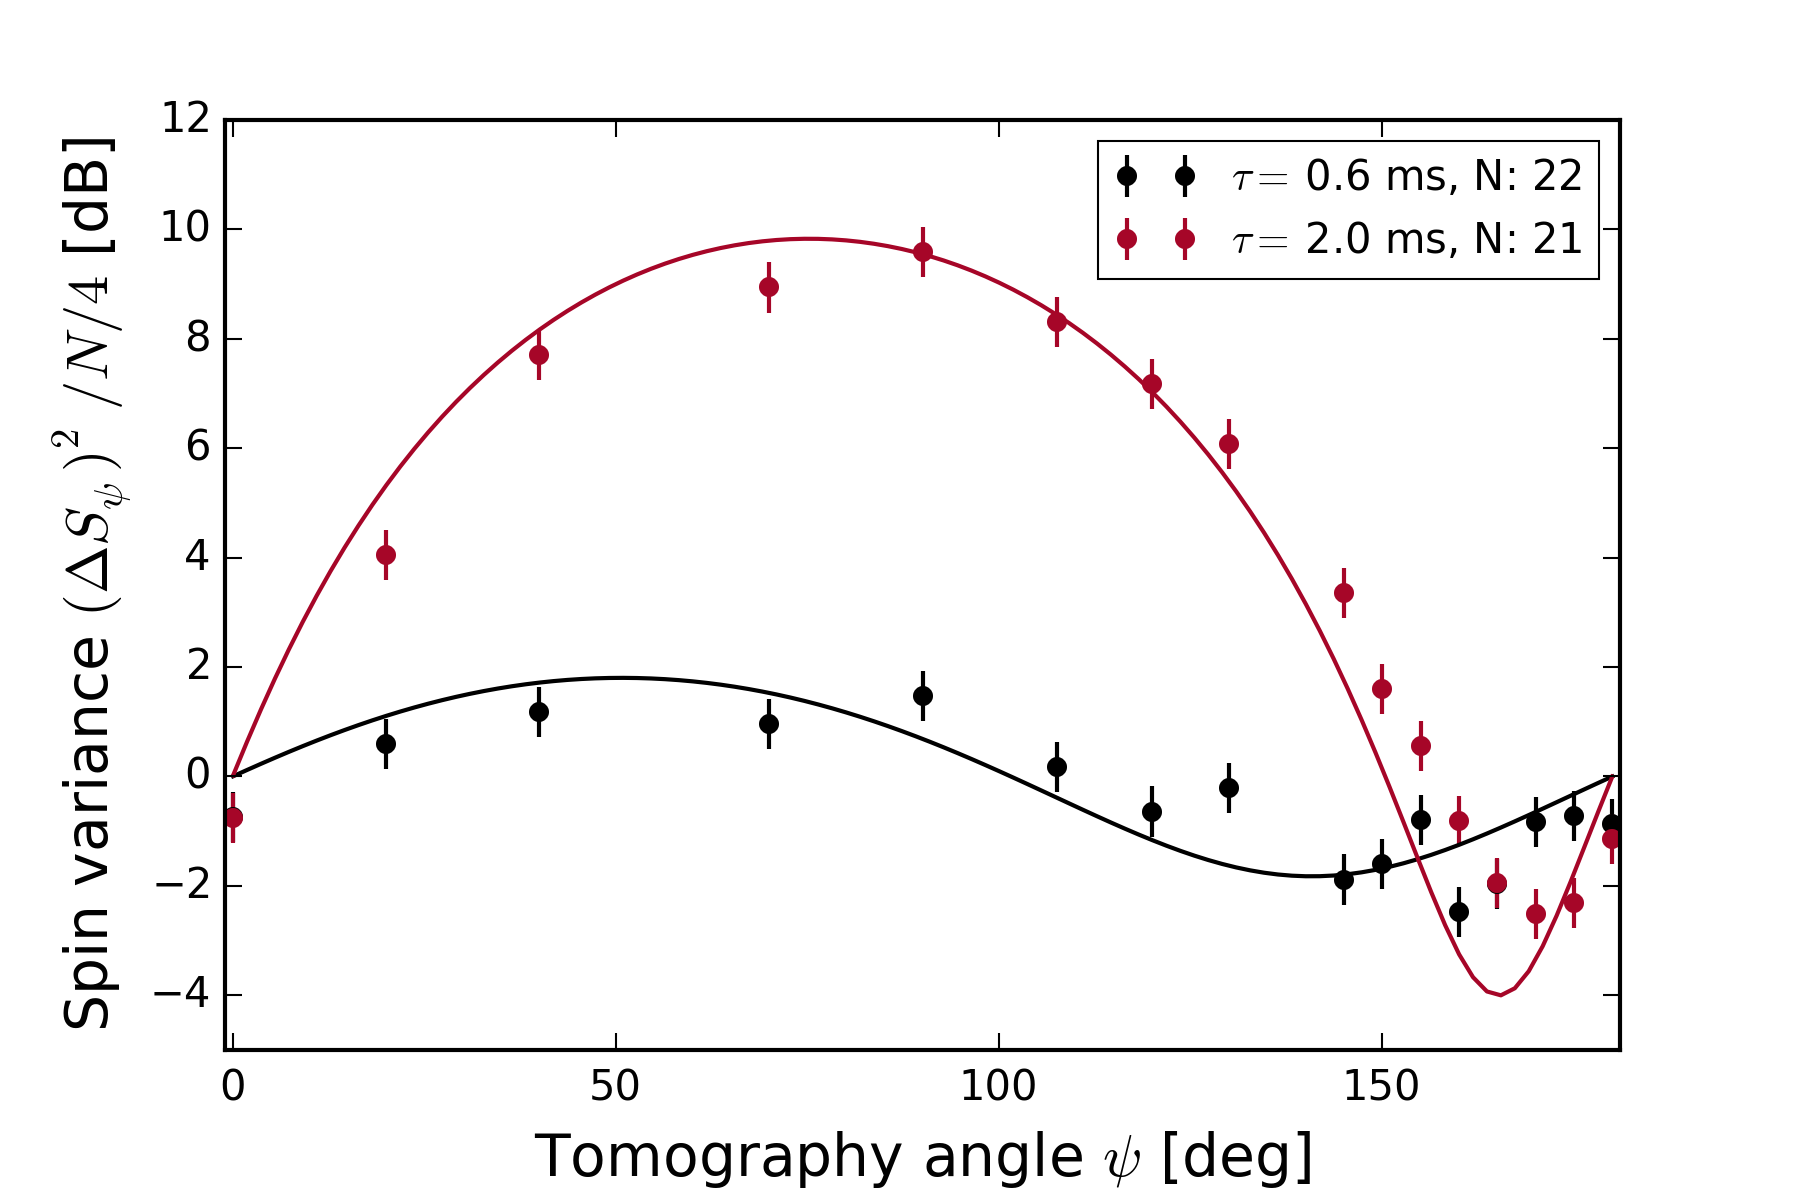
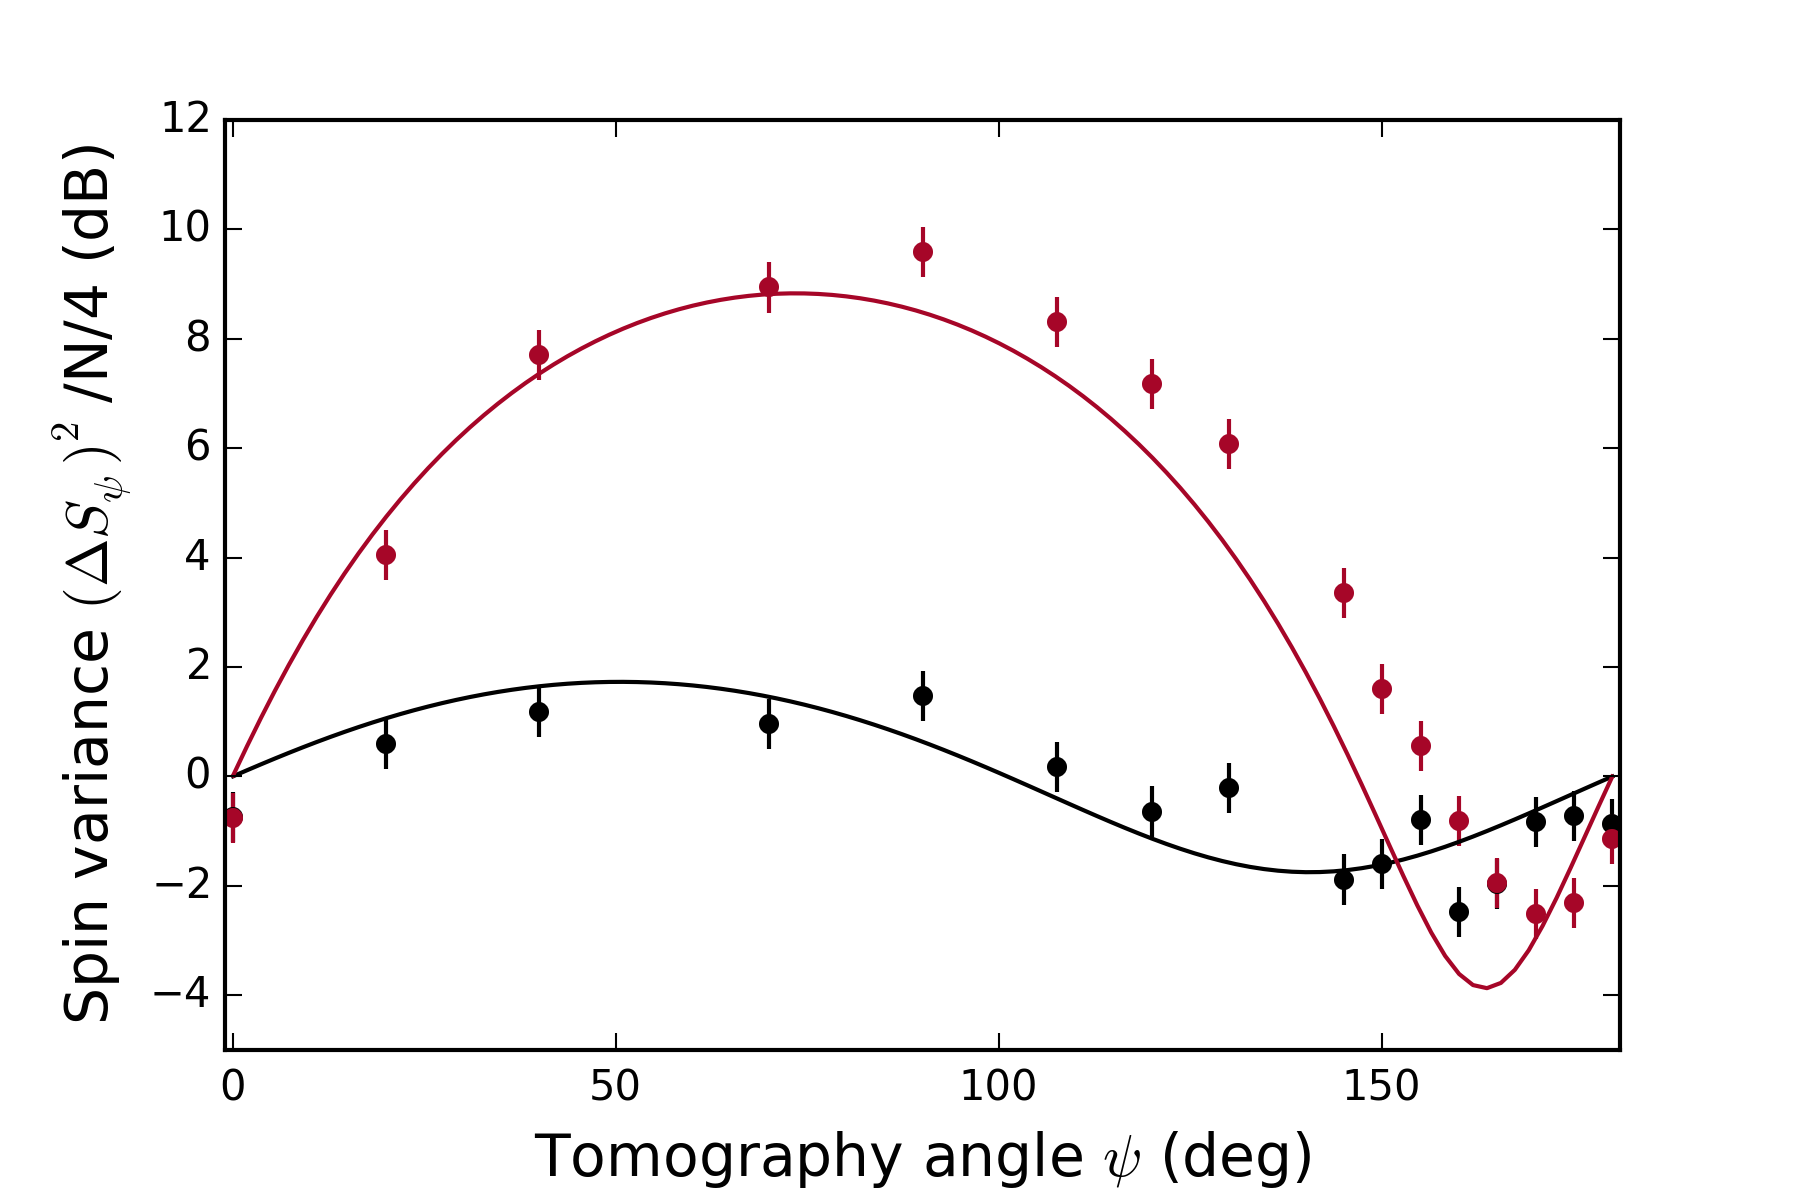
figure style for Science

diff --git a/paper_figs/penning_squeeze/SE_squeeze_Batch_8_6_fig.py b/paper_figs/penning_squeeze/SE_squeeze_Batch_8_6_fig.py
@@ -16,7 +16,7 @@ import squeeze_func_time as squ
 
 #options
 verbose = True
-save = False
+save = True
 img_name = "spinNoise_8_6"
 
 # containers for data sets
@@ -113,17 +113,19 @@ for i,data in enumerate(sig_obs):
 
 #plt.yscale('log')
 #plt.xscale('log')
-plt.axis([-1,181,-8,15])
-plt.xlabel(r"Tomography angle $\psi$ [deg]")
-plt.ylabel(r"Spin variance $(\Delta S_\psi)^2/N/4$ [dB]")
+plt.axis([-1,181,-9,15])
+plt.xlabel(r"Tomography angle $\psi$ (deg)")
+plt.ylabel(r"Spin variance $(\Delta S_\psi)^2$/N/4 (dB)")
 plt.grid('off')
-plt.legend(loc=0,fontsize=10)
+#plt.legend(loc=0,fontsize=10)
 
 #________________________________________________________________________
 #add some theory curves
 G_el =  58.46
 G_ud =  8.76
 G_du =  6.19
+#include additional decoherence term
+G_el = G_el + 45.0
 
 psi = np.linspace(0.001,pi,num=100) # radians
 

diff --git a/paper_figs/penning_squeeze/SE_squeeze_Batch_8_11_fig.py b/paper_figs/penning_squeeze/SE_squeeze_Batch_8_11_fig.py
@@ -119,19 +119,20 @@ for i,data in enumerate(sig_obs):
 #plt.yscale('log')
 #plt.xscale('log')
 plt.axis([-1,181,-5,12])
-plt.xlabel(r"Tomography angle $\psi$ [deg]")
-plt.ylabel(r"Spin variance $(\Delta S_\psi)^2/N/4$ [dB]")
+plt.xlabel(r"Tomography angle $\psi$ (deg)")
+plt.ylabel(r"Spin variance $(\Delta S_\psi)^2$/N/4 (dB)")
 plt.grid('off')
-plt.legend(loc=0,fontsize=10)
+#plt.legend(loc=0,fontsize=10)
 
 if save is True:
     ps.save_data_txt("var_data.txt", data_for_save)
 
 #________________________________________________________________________
 #add some theory curves
-G_el =  38.1
+G_el =  58.46
 G_ud =  8.56
 G_du =  6.05
+G_el =  G_el + 120.0
 
 psi = np.linspace(0.001,pi,num=100) # radians
 

diff --git a/paper_figs/penning_squeeze/SE_Sx_Batch_fig.py b/paper_figs/penning_squeeze/SE_Sx_Batch_fig.py
@@ -133,7 +133,7 @@ if save_txt is True:
         
 #plt.legend(loc=3, fontsize=10)
 plt.xlabel(r"Interaction time  $\tau$ (ms)")
-plt.ylabel(r"Spin Coherence  $ 2\left \langle S_x \right \rangle /N$")
+plt.ylabel(r"Spin Coherence  2$\left \langle S_x \right \rangle$/N")
 
 
 #________________________________________________________________________
